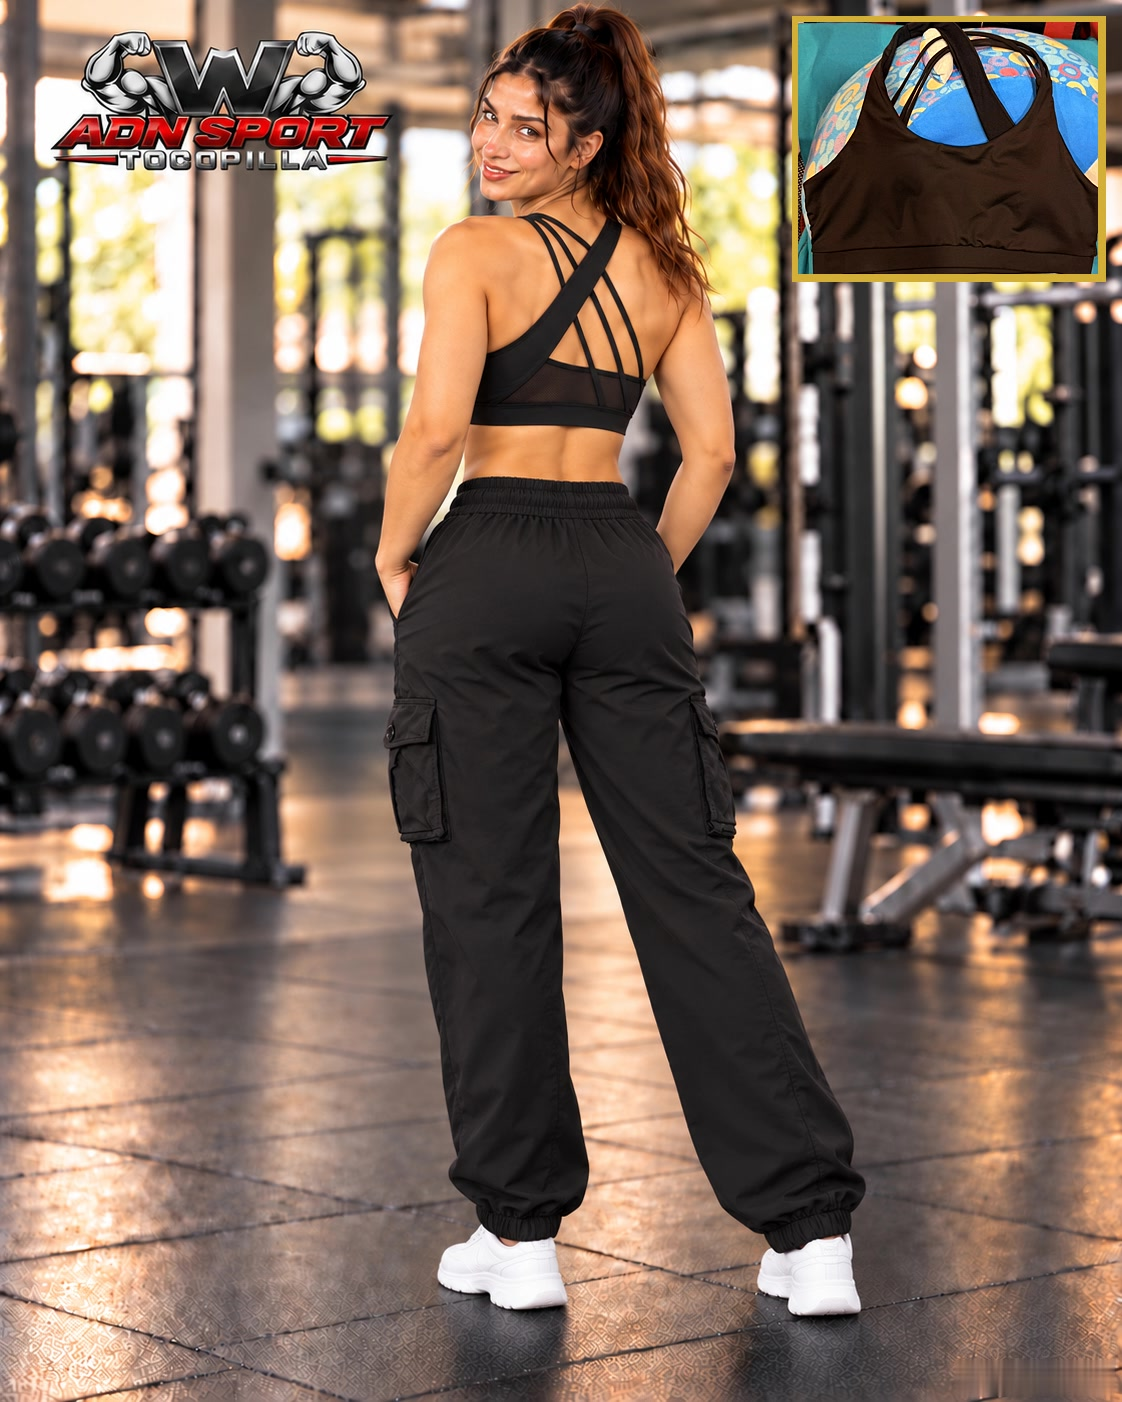
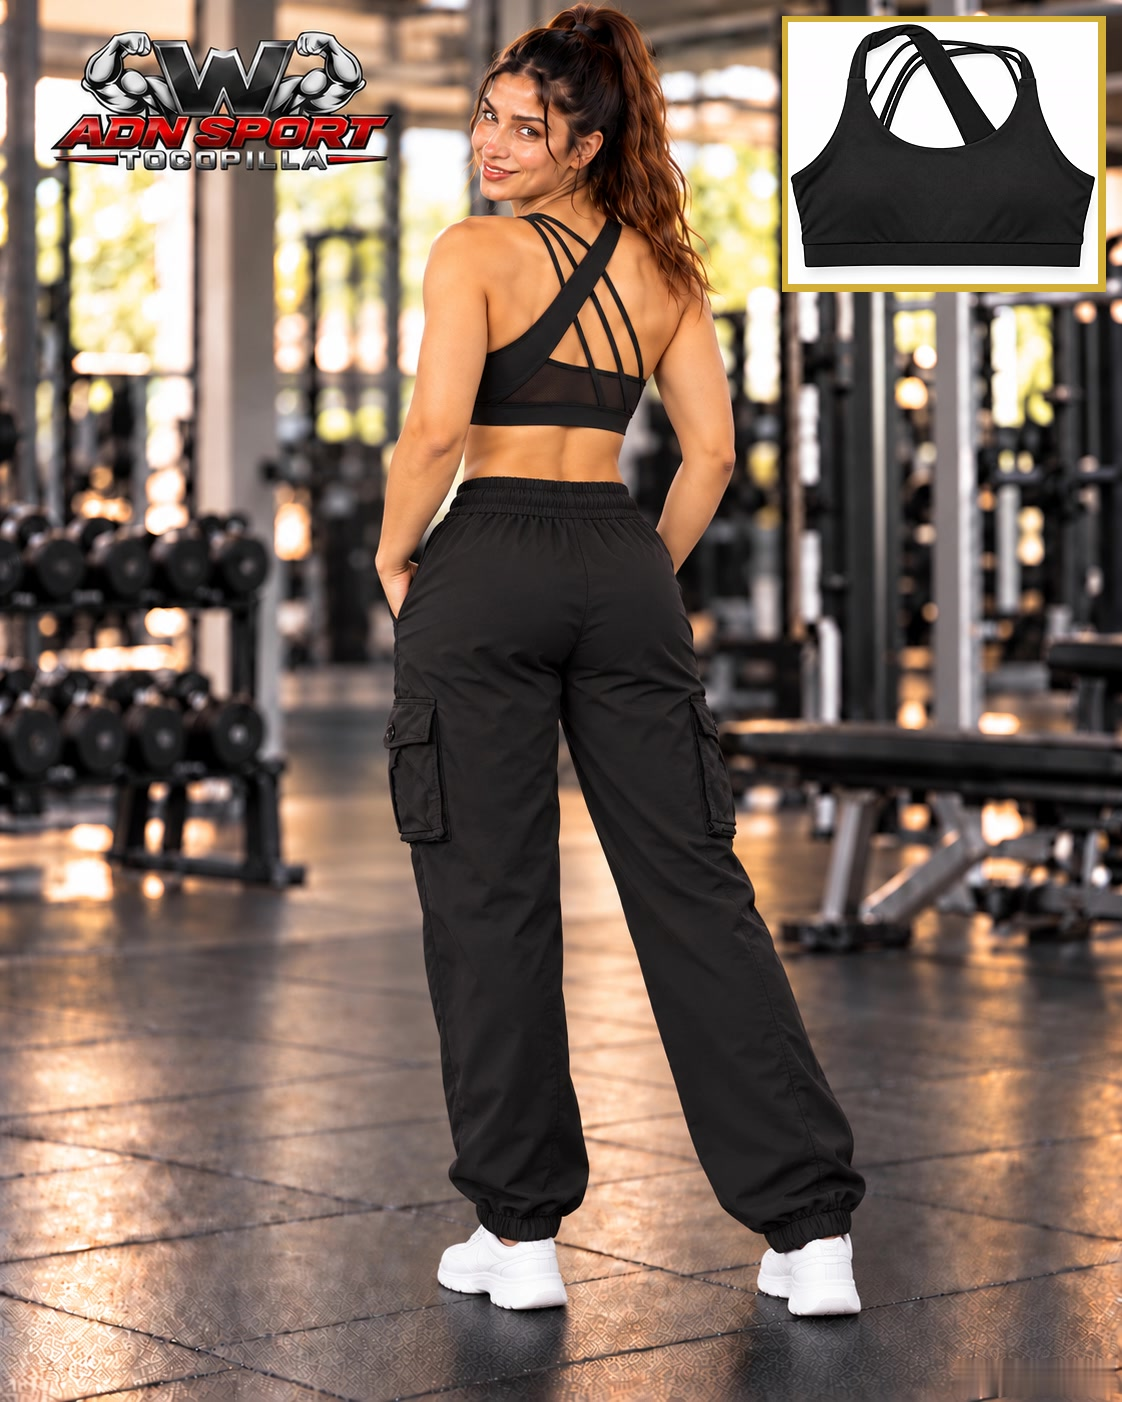
Tienda: cuadro del top con foto limpia de fondo blanco
Claude-Session: https://claude.ai/code/session_013ZgZPSRHEDhMsqmx8Km842

Changed region(s): [[0.6863, 0.0, 0.9982, 0.2147]]

diff --git a/tienda.html b/tienda.html
@@ -230,7 +230,7 @@ function hoyISO(){ return new Intl.DateTimeFormat("en-CA", { timeZone:"America/S
 function ahoraTxt(){ var f = new Intl.DateTimeFormat("sv-SE", { timeZone:"America/Santiago", year:"numeric", month:"2-digit", day:"2-digit", hour:"2-digit", minute:"2-digit" }).format(new Date()); return f.replace("T", " ").slice(0, 16); }
 function normTxt(s){ return String(s || "").toUpperCase().normalize("NFD").replace(/[̀-ͯ]/g, ""); }
 /* Al cambiar una foto en img/tienda/ (mismo nombre), subir FOTO_V para que los teléfonos no muestren la antigua. */
-var FOTO_V = "45";
+var FOTO_V = "46";
 function fotoUrl(f){ return f ? f + (f.indexOf("?") < 0 ? "?v=" + FOTO_V : "") : ""; }
 function iconoCat(c){ var x = CATS.filter(function(k){ return k[0] === c; })[0]; return x ? x[1] : "📦"; }
 function toast(t, ms){ var el = $("toast"); el.textContent = t; el.style.display = "block"; clearTimeout(toast.t); toast.t = setTimeout(function(){ el.style.display = "none"; }, ms || 2600); }
@@ -312,7 +312,7 @@ setInterval(function(){ if(pend.length) enviarPendientes(); }, 30000);
    el computador"): los datos se vuelven a pedir a la planilla cada 30 s mientras la página está a la vista (sin una ficha
    abierta), y cada minuto se revisa tienda-version.txt: si hay una versión nueva de la página, se recarga sola.
    Cada vez que se cambie tienda.html, subir TIENDA_VERSION y tienda-version.txt juntos (AAAAMMDDNN). */
-var TIENDA_VERSION = "2026102604";
+var TIENDA_VERSION = "2026102605";
 setInterval(function(){ if(clave && !document.hidden && $("velo").hidden && !$("app").hidden) enviarPendientes().then(function(){ cargar(true); }); }, 30000);
 function revisarVersion(){
  fetch("tienda-version.txt?t=" + Date.now(), { cache:"no-store" }).then(function(r){ return r.ok ? r.text() : ""; }).then(function(v){

diff --git a/tarjeta.html b/tarjeta.html
@@ -2443,7 +2443,7 @@ function renderEvolucion(s){
     oculta con «Ya no lo vendo» no llega. «Lo quiero» abre una ventanita (foto grande, cantidad, total)
     y después WhatsApp a Sara con el pedido. El stock solo baja cuando ella cobra en la tienda.
     Al cambiar una foto de img/tienda/ con el mismo nombre, subir TIENDA_FOTO_V junto con FOTO_V de tienda.html. */
- var TIENDA_FOTO_V = "45", TIENDA_WSP = "56975196394";
+ var TIENDA_FOTO_V = "46", TIENDA_WSP = "56975196394";
  /* Interruptor (25-10-2026, la dueña: "no quiero publicar la tienda el lunes porque compré ropa en Shein y no sé
     cuándo me llegaría"): en false la tarjeta no muestra la tienda aunque la Versión 25 esté instalada.
     Ponerlo en true (y subir TARJETA_VERSION) solo cuando ella lo pida. */
@@ -2560,7 +2560,7 @@ function renderEvolucion(s){
     compara TARJETA_VERSION con tarjeta-version.txt del sitio y, si hay
     una más nueva, la página se recarga sola (el nombre ya aparece
     puesto). Al cambiar tarjeta.html, subir los DOS números juntos. */
- var TARJETA_VERSION = "2026102601", ultimaRevisionVersion = 0;
+ var TARJETA_VERSION = "2026102602", ultimaRevisionVersion = 0;
 function recargarFresco_(v){
  /* Recarga pidiendo la página nueva (11-10-2026): location.reload() podía traer la copia
     guardada del teléfono (GitHub guarda la página ~10 min) y el socio seguía con la versión

diff --git a/CLAUDE.md b/CLAUDE.md
@@ -1543,7 +1543,7 @@ Versión 23). Celular y compu ven el mismo inventario.
   guardado como «Ropa deportiva» se muestra como «Ropa mujer»; en los enlaces usar `cat=Ropa%20mujer` o `cat=Ropa%20hombre`).
   Ropa deportiva de mujer (24-10-2026): cada talla y color es un producto aparte con su código 200… (la ropa no trae
   código). Conjunto Gym Work 3 piezas blanco/negro M ($13.609 → $22.000; foto de espaldas con la modelo + cuadro con la foto original del conjunto, en 900 px de alto), Short scrunch M.Minute negro S (foto `img/tienda/short-scrunch-negro.jpg`, con modelo + cuadro de espalda) y azul oscuro S (foto `img/tienda/short-scrunch-azul.jpg`, igual)
-  (pack de 2 por $7.512 → $3.756 c/u, venta $9.000), Conjunto Easithlete negro M ($8.568; foto con la modelo + cuadro de la espalda, 900 px), Leggings Yefecy negro M ($11.001 → $16.000; foto con modelo de frente + cuadro de espalda), Conjunto Easithlete a $15.000; short negro a $10.000. Ropa de hombre: Polera «Stronger every day» negra M ($7.204 → $13.000; modelo hombre de espaldas + cuadro de frente), Polera Rise LYT raglán negra M ($6.701 → $14.000; modelo hombre de espaldas + cuadro de frente; adelante el diseño de espinas ancho; atrás uno distinto, grande, con alas arriba y una punta larga por la columna), Polera Gym Rark «Never give up» negra M ($7.793 → $15.000; modelo de espaldas + cuadro de frente con el toro), Polera de compresión Gym Rark negra M ($7.051 → $13.000; modelo de espaldas: cuernos blancos grandes + franja roja larga por la columna; cuadro con el mismo modelo de frente con «AGILITY», hecho en ChatGPT), Polera «This is my therapy» negra L ($7.323 → $14.000; modelo de espaldas + cuadro de frente; adelante lleva el toro chico en el pecho izquierdo), Musculosa «//Strength» blanca y negra M ($8.000 → $11.000; foto con modelo hombre de ChatGPT), Musculosa «Boston EST.1997» gris M ($8.000 → $12.000), Musculosa Batman blanca M ($8.000 → $11.000). Short Jogging rojo M (25-10-2026, $7.000 → $13.000; foto `img/tienda/short-jogging-rojo.jpg`: modelo de frente con el logo + cuadro de lado con «JOGGING»; ChatGPT usó el modelo de las máquinas, no el de las poleras). Ropa mujer: Polera Cherry rosada crop S ($3.000 → $6.000) y Polera tie-dye negra y blanca crop S ($2.000 → $5.000), Calza flare camuflaje S-M ($7.000 → $10.000; modelo con el camuflaje verde oliva real + cuadro de espalda), Calza leopardo con malla S ($8.000 → $12.000; modelo de frente + cuadro de espalda hecho en ChatGPT), Calza tie-dye azul y amarilla M ($8.000 → $11.000; foto con modelo de lado + cuadro de frente), Calza tie-dye morada y negra con frunce M ($7.000 → $10.000; foto `img/tienda/calza-tie-dye-morada-negra.jpg`: modelo de espaldas + cuadro de frente); Pantalón cargo LA negro, talla S oversize (25-10-2026, 1 unidad, ya lo tiene: $19.000 → $25.000; foto `img/tienda/pantalon-cargo-la-negro.jpg`: modelo de frente con el logo «LA» + cuadro de espaldas); Pantalón cargo jogger azul marino M (26-10-2026, $8.000 → $14.000; foto `img/tienda/pantalon-cargo-jogger-azul.jpg`: modelo de frente + cuadro de espaldas); Pantalón jogger blanco y rojo M (26-10-2026, $5.000 → $10.000; estampados tipo Jordan/Nike Air: se carga sin «Nike» ni «Jordan» en el nombre; foto `img/tienda/pantalon-jogger-blanco-rojo.jpg`, armada por la dueña con logo; el cuadro de espaldas se cambió el 26-10-2026 por uno fiel al pantalón real: atrás las dos piernas iguales, blanco arriba, panel rojo en V al medio y blanco abajo); Pantalón cargo con cordones gris azulado L (26-10-2026, $8.000 → $14.000; cordón cruzado con ojetillos junto a cada bolsillo; foto `img/tienda/pantalon-cargo-cordones-gris.jpg`, armada por la dueña con logo y cuadro de espaldas); Pantalón deportivo celeste con franjas, talla S oversize (26-10-2026, $15.000 → $20.000; dos franjas blancas a cada costado, «DIRECTION» en el muslo, tobillos con cordón; foto `img/tienda/pantalon-deportivo-celeste.jpg`, armada por la dueña con logo y cuadro de espaldas; ChatGPT bloqueó la vista de espaldas hasta que se pidió de perfil en un chat nuevo); Pantalón Wide Leg gris (de punto jaspeado, pierna ancha; nombre «Wide Leg» elegido como forma moderna de decir «patas anchas»), M (26-10-2026, $6.000 → $12.000; foto `img/tienda/pantalon-punto-gris.jpg`: modelo de frente + cuadro de perfil caminando); Pantalón Wide Leg de cotelé crema, M (26-10-2026, $8.000 → $13.000; etiqueta «CARGO PANTS» en el muslo; foto `img/tienda/pantalon-wide-leg-cotele-crema.jpg`: modelo de frente + cuadro de perfil caminando); Pantalón cargo jogger palo rosa, talla S-M (26-10-2026, $8.000 → $12.000; foto `img/tienda/pantalon-cargo-jogger-palo-rosa.jpg`: modelo de frente + cuadro de perfil caminando; se borró «La Administración» que traía la foto de ChatGPT); Polerón jersey 54 negro, M (26-10-2026, $10.000 → $17.500; cuello en V, «54» grande adelante y chico en cada hombro, dos franjas blancas por manga, escudo rojo «1999»; foto `img/tienda/poleron-jersey-54-negro.jpg`: modelo de frente + cuadro de perfil caminando; sin «La Administración»); fotos con modelo hechas por la dueña en ChatGPT. Suplementos en pausa.
+  (pack de 2 por $7.512 → $3.756 c/u, venta $9.000), Conjunto Easithlete negro M ($8.568; foto con la modelo + cuadro de la espalda, 900 px), Leggings Yefecy negro M ($11.001 → $16.000; foto con modelo de frente + cuadro de espalda), Conjunto Easithlete a $15.000; short negro a $10.000. Ropa de hombre: Polera «Stronger every day» negra M ($7.204 → $13.000; modelo hombre de espaldas + cuadro de frente), Polera Rise LYT raglán negra M ($6.701 → $14.000; modelo hombre de espaldas + cuadro de frente; adelante el diseño de espinas ancho; atrás uno distinto, grande, con alas arriba y una punta larga por la columna), Polera Gym Rark «Never give up» negra M ($7.793 → $15.000; modelo de espaldas + cuadro de frente con el toro), Polera de compresión Gym Rark negra M ($7.051 → $13.000; modelo de espaldas: cuernos blancos grandes + franja roja larga por la columna; cuadro con el mismo modelo de frente con «AGILITY», hecho en ChatGPT), Polera «This is my therapy» negra L ($7.323 → $14.000; modelo de espaldas + cuadro de frente; adelante lleva el toro chico en el pecho izquierdo), Musculosa «//Strength» blanca y negra M ($8.000 → $11.000; foto con modelo hombre de ChatGPT), Musculosa «Boston EST.1997» gris M ($8.000 → $12.000), Musculosa Batman blanca M ($8.000 → $11.000). Short Jogging rojo M (25-10-2026, $7.000 → $13.000; foto `img/tienda/short-jogging-rojo.jpg`: modelo de frente con el logo + cuadro de lado con «JOGGING»; ChatGPT usó el modelo de las máquinas, no el de las poleras). Ropa mujer: Polera Cherry rosada crop S ($3.000 → $6.000) y Polera tie-dye negra y blanca crop S ($2.000 → $5.000), Calza flare camuflaje S-M ($7.000 → $10.000; modelo con el camuflaje verde oliva real + cuadro de espalda), Calza leopardo con malla S ($8.000 → $12.000; modelo de frente + cuadro de espalda hecho en ChatGPT), Calza tie-dye azul y amarilla M ($8.000 → $11.000; foto con modelo de lado + cuadro de frente), Calza tie-dye morada y negra con frunce M ($7.000 → $10.000; foto `img/tienda/calza-tie-dye-morada-negra.jpg`: modelo de espaldas + cuadro de frente); Pantalón cargo LA negro, talla S oversize (25-10-2026, 1 unidad, ya lo tiene: $19.000 → $25.000; foto `img/tienda/pantalon-cargo-la-negro.jpg`: modelo de frente con el logo «LA» + cuadro de espaldas); Pantalón cargo jogger azul marino M (26-10-2026, $8.000 → $14.000; foto `img/tienda/pantalon-cargo-jogger-azul.jpg`: modelo de frente + cuadro de espaldas); Pantalón jogger blanco y rojo M (26-10-2026, $5.000 → $10.000; estampados tipo Jordan/Nike Air: se carga sin «Nike» ni «Jordan» en el nombre; foto `img/tienda/pantalon-jogger-blanco-rojo.jpg`, armada por la dueña con logo; el cuadro de espaldas se cambió el 26-10-2026 por uno fiel al pantalón real: atrás las dos piernas iguales, blanco arriba, panel rojo en V al medio y blanco abajo); Pantalón cargo con cordones gris azulado L (26-10-2026, $8.000 → $14.000; cordón cruzado con ojetillos junto a cada bolsillo; foto `img/tienda/pantalon-cargo-cordones-gris.jpg`, armada por la dueña con logo y cuadro de espaldas); Pantalón deportivo celeste con franjas, talla S oversize (26-10-2026, $15.000 → $20.000; dos franjas blancas a cada costado, «DIRECTION» en el muslo, tobillos con cordón; foto `img/tienda/pantalon-deportivo-celeste.jpg`, armada por la dueña con logo y cuadro de espaldas; ChatGPT bloqueó la vista de espaldas hasta que se pidió de perfil en un chat nuevo); Pantalón Wide Leg gris (de punto jaspeado, pierna ancha; nombre «Wide Leg» elegido como forma moderna de decir «patas anchas»), M (26-10-2026, $6.000 → $12.000; foto `img/tienda/pantalon-punto-gris.jpg`: modelo de frente + cuadro de perfil caminando); Pantalón Wide Leg de cotelé crema, M (26-10-2026, $8.000 → $13.000; etiqueta «CARGO PANTS» en el muslo; foto `img/tienda/pantalon-wide-leg-cotele-crema.jpg`: modelo de frente + cuadro de perfil caminando); Pantalón cargo jogger palo rosa, talla S-M (26-10-2026, $8.000 → $12.000; foto `img/tienda/pantalon-cargo-jogger-palo-rosa.jpg`: modelo de frente + cuadro de perfil caminando; se borró «La Administración» que traía la foto de ChatGPT); Polerón jersey 54 negro, M (26-10-2026, $10.000 → $17.500; cuello en V, «54» grande adelante y chico en cada hombro, dos franjas blancas por manga, escudo rojo «1999»; foto `img/tienda/poleron-jersey-54-negro.jpg`: modelo de frente + cuadro de perfil caminando; sin «La Administración»); Top deportivo negro con tiras en la espalda (26-10-2026; foto `img/tienda/top-deportivo-tiras-negro.jpg`: modelo de espaldas hecha en ChatGPT con la polerón 54 como base, porque con la foto de la modelo de top negro ChatGPT no cambiaba la prenda; cuadro con el top por delante sobre fondo blanco, limpiado en ChatGPT; talla y precios por confirmar); fotos con modelo hechas por la dueña en ChatGPT. Suplementos en pausa.
   Bebestibles en pausa hasta que llegue más mercadería. Un enlace `?nuevo=1` con un código que ya existe abre ese producto (aunque cambie el nombre). **En los enlaces, todo carácter no ASCII va codificado (á → %C3%A1)**: el de la polera Rise LYT llevaba «raglán» sin codificar, el chat volvió a codificar el enlace y el producto quedó «Polera%20Rise…» en Bebestibles; desde el 24-10-2026 `sinPorcentajes` decodifica los parámetros y `repararCodificados` arregla y vuelve a guardar los nombres que quedaron con %XX.
   **Todo se actualiza solo (24-10-2026, la dueña: "si hago una modificación en el celular, que se cambie igual en el
   computador"):** los datos se piden a la planilla cada 30 s si la página está a la vista y sin ficha abierta, y cada
